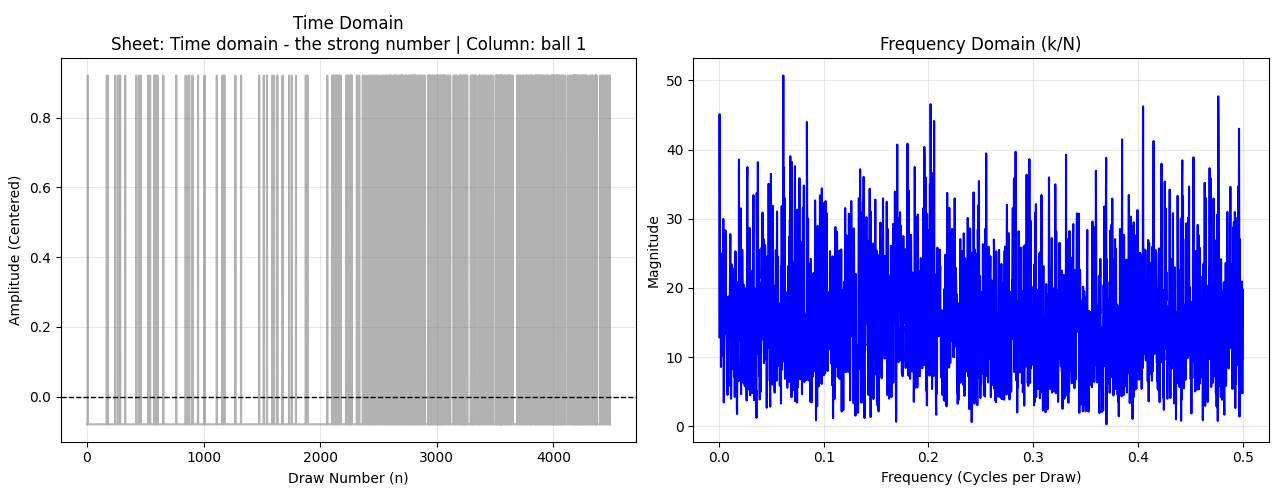
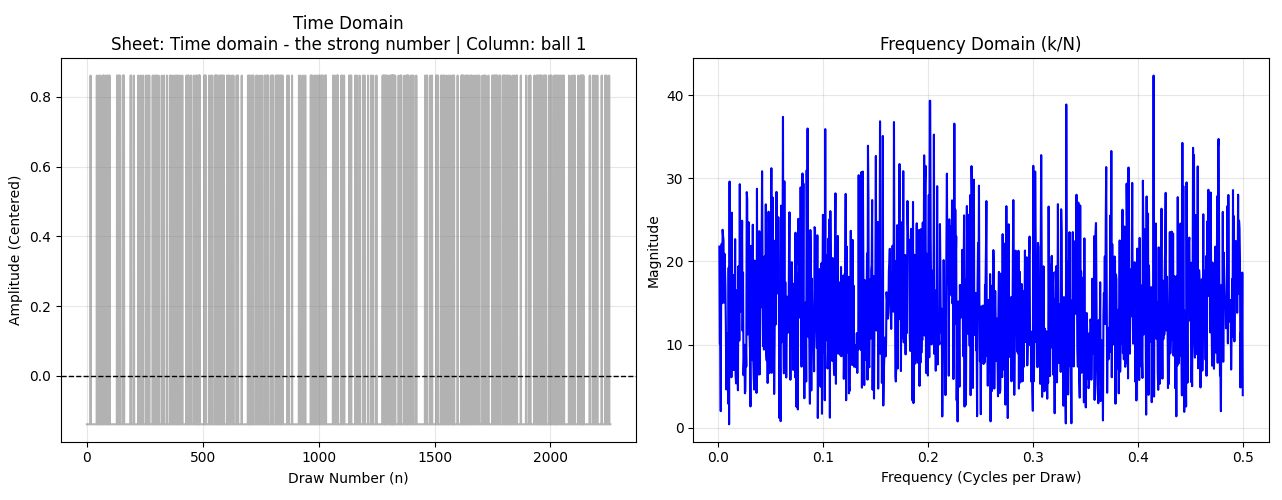
creating new FFTs for the cleaned data.

diff --git a/lotto.py b/lotto.py
@@ -65,4 +65,4 @@ def analyze_lottery_periodicity(file_path, sheet_name, column_name):
 
 analyze_lottery_periodicity('C:\\Users\\idowe\\MyProjects\\Lottery-estimation\\Lotto.xlsx', 
                             sheet_name='Time domain - the strong number', 
-                            column_name='ball 6')
+                            column_name='ball 1')
